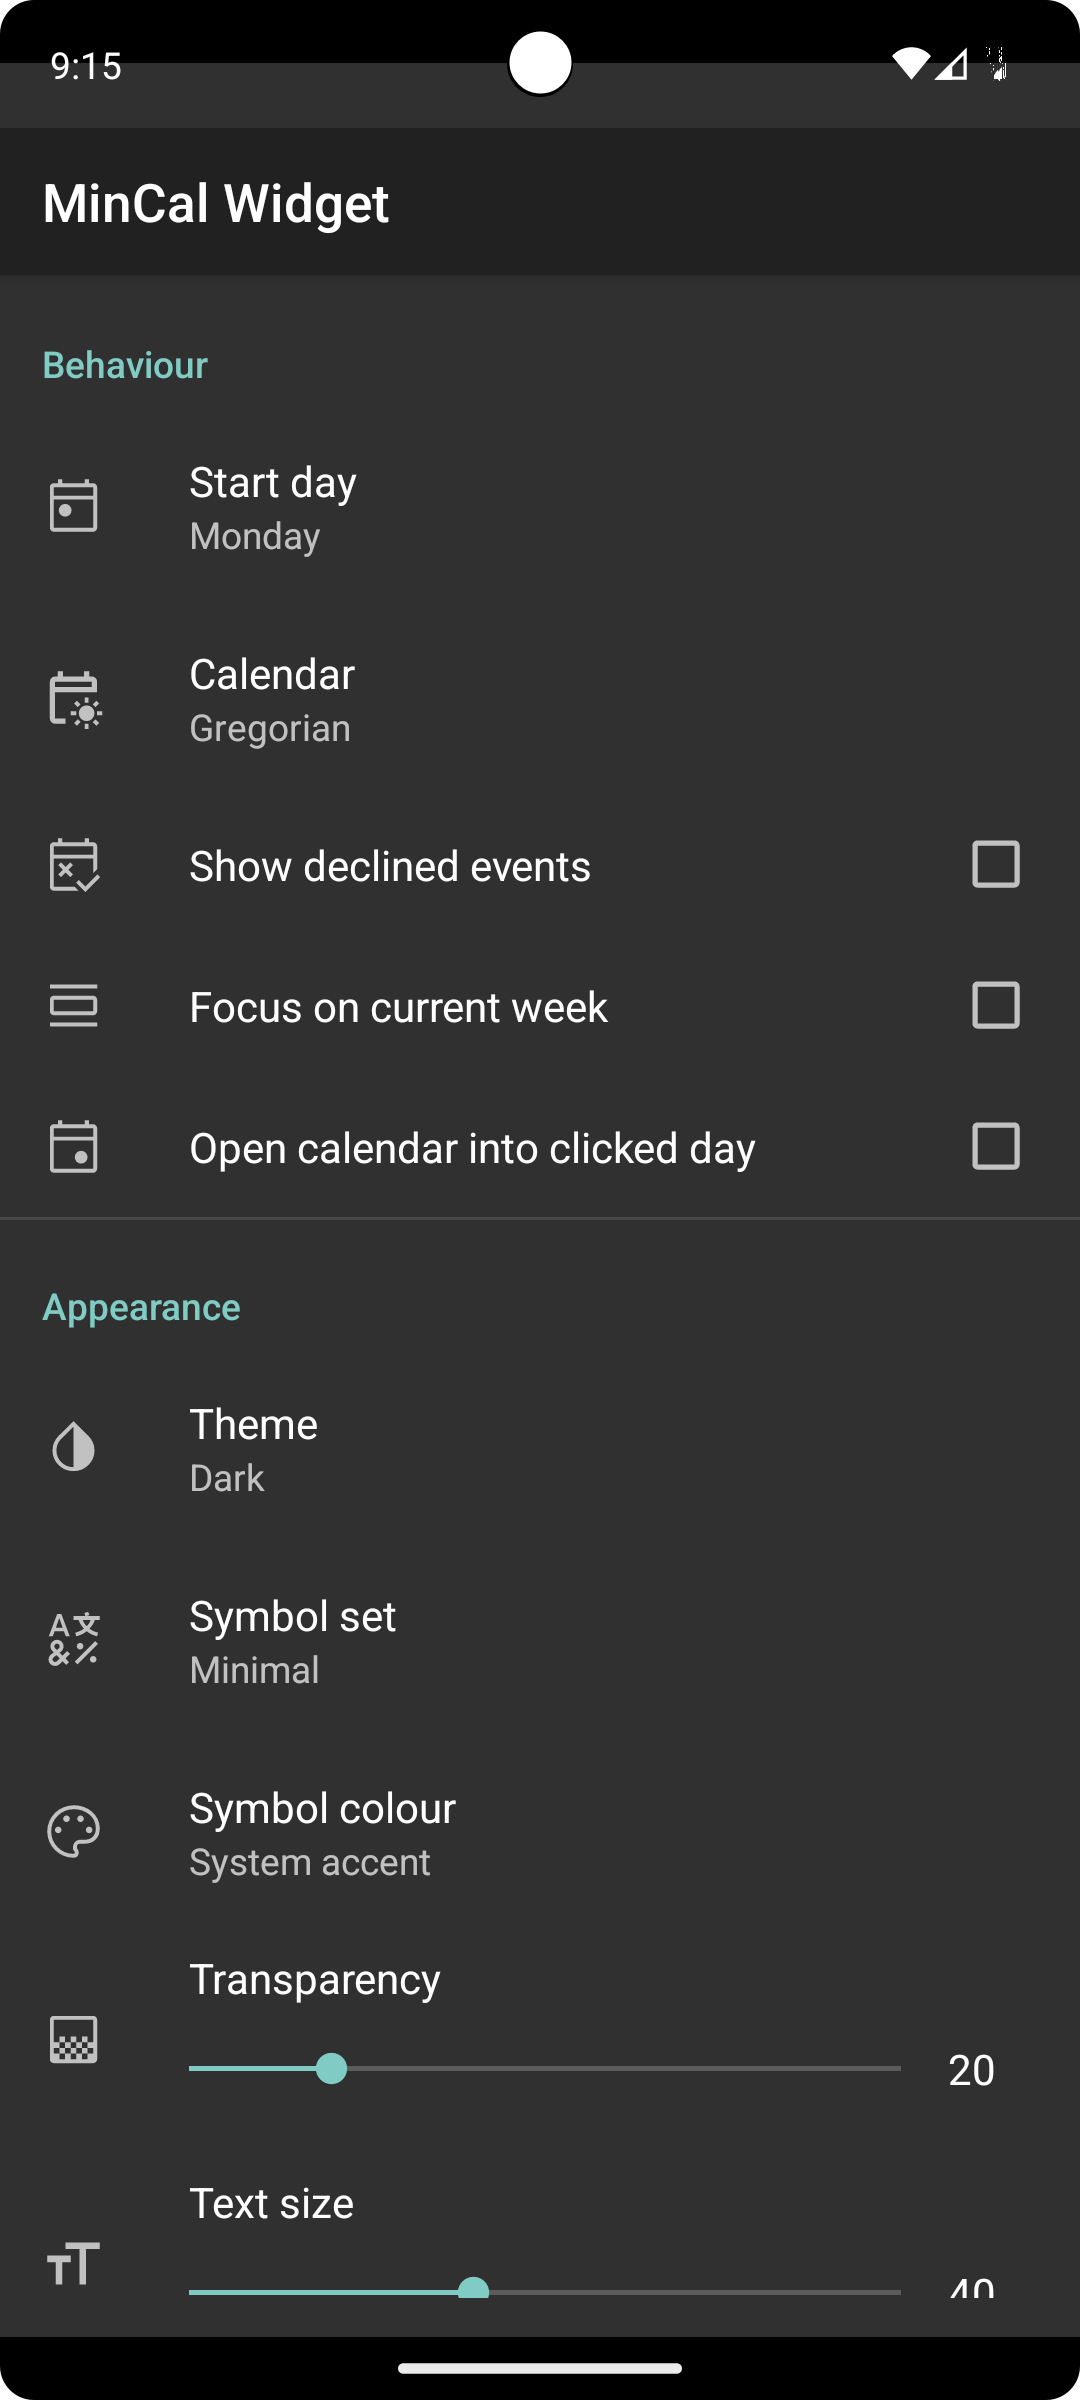
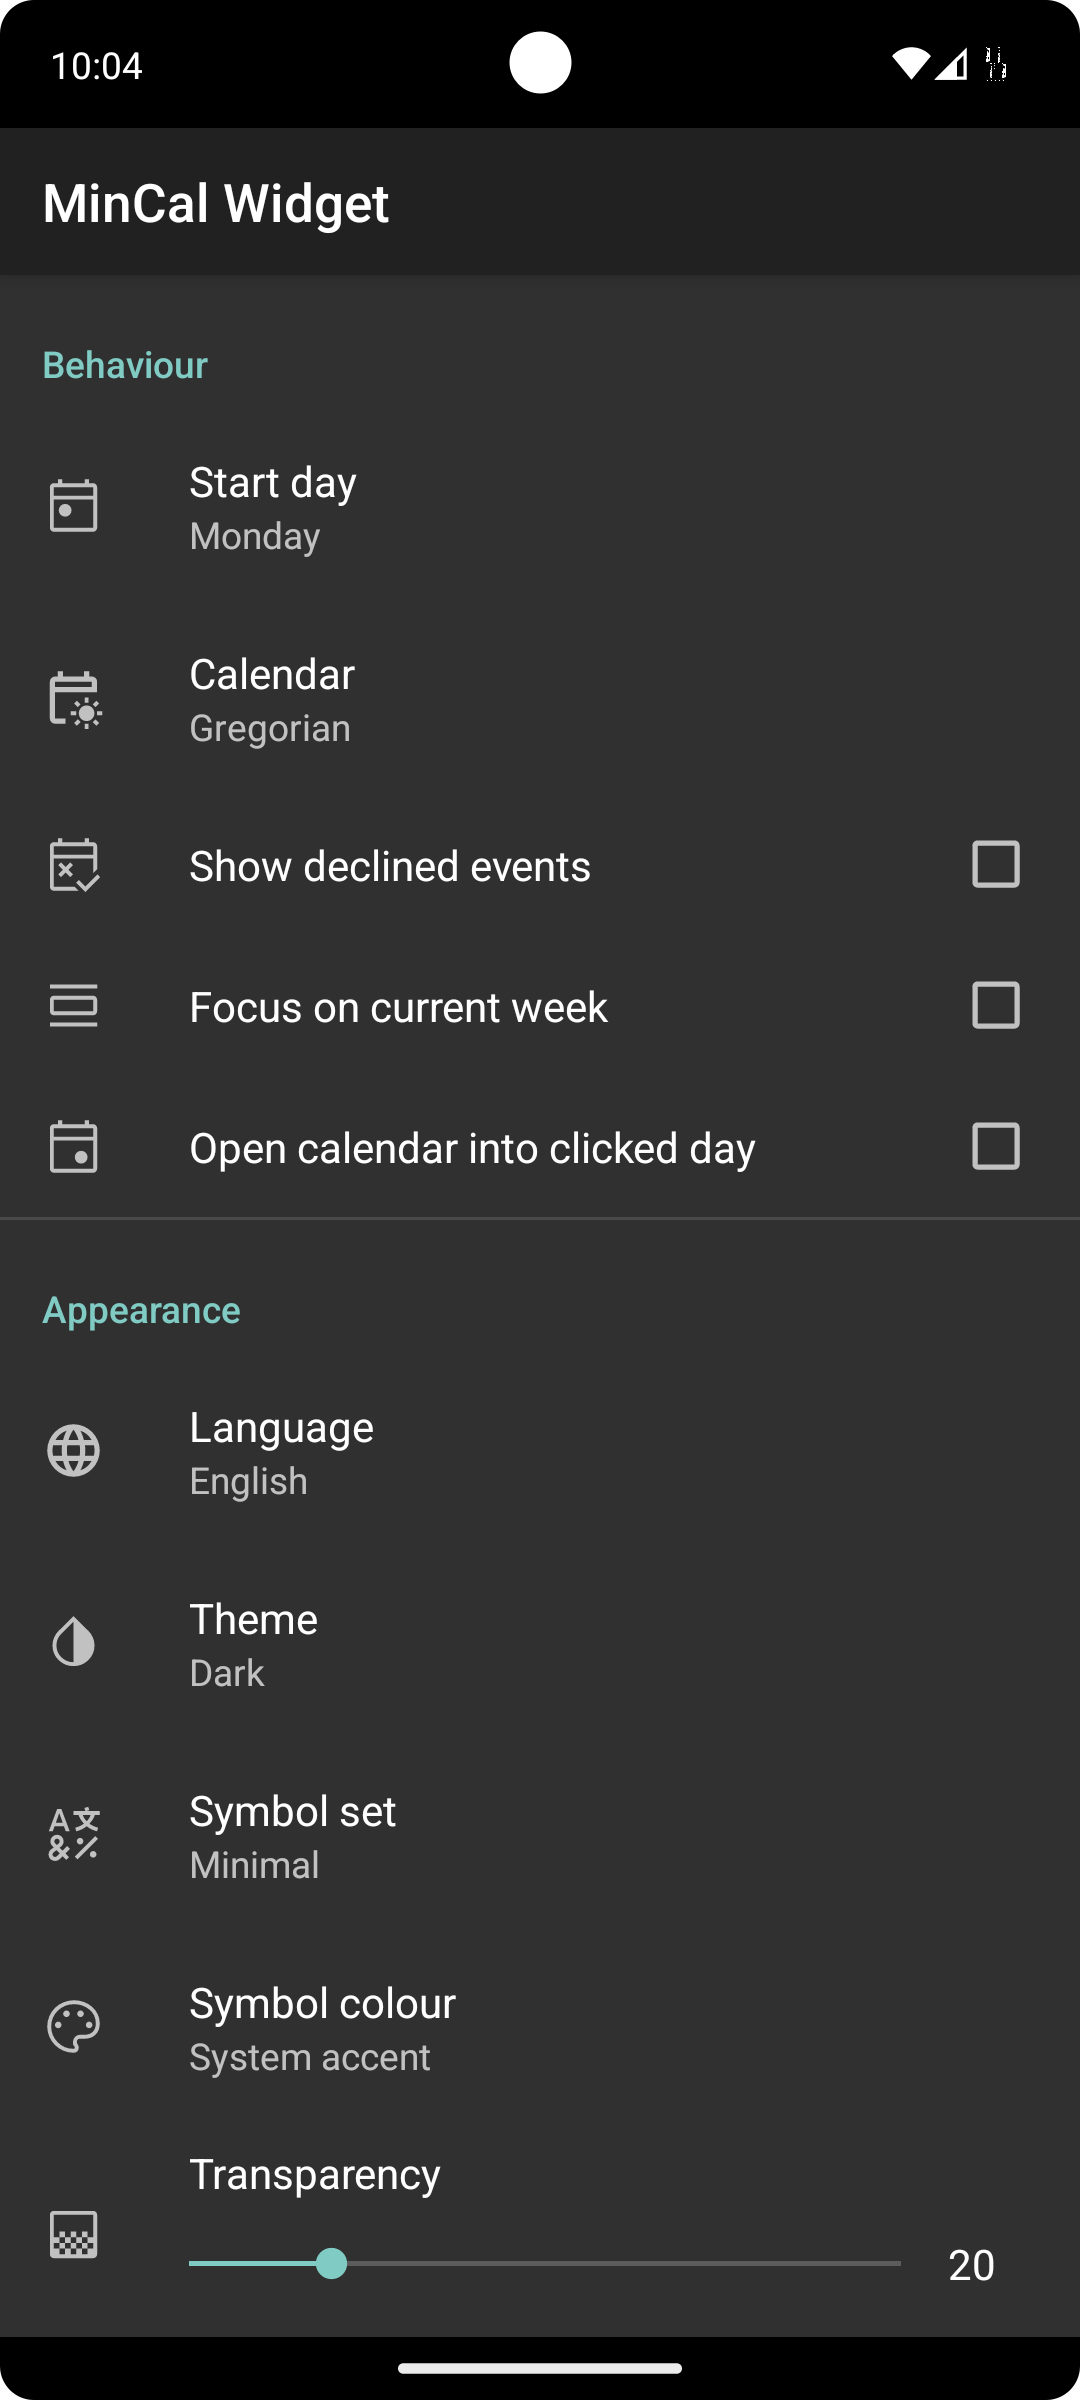
use per app language preference from API 33

diff --git a/app/src/main/kotlin/cat/mvmike/minimalcalendarwidget/infrastructure/activity/ConfigurationActivity.kt b/app/src/main/kotlin/cat/mvmike/minimalcalendarwidget/infrastructure/activity/ConfigurationActivity.kt
@@ -26,6 +26,7 @@ import cat.mvmike.minimalcalendarwidget.application.RedrawWidgetUseCase
 import cat.mvmike.minimalcalendarwidget.domain.configuration.BooleanConfigurationItem
 import cat.mvmike.minimalcalendarwidget.domain.configuration.ConfigurationItem
 import cat.mvmike.minimalcalendarwidget.domain.configuration.EnumConfigurationItem
+import cat.mvmike.minimalcalendarwidget.domain.configuration.LANGUAGE_KEY
 import cat.mvmike.minimalcalendarwidget.domain.configuration.PREFERENCE_KEY
 import cat.mvmike.minimalcalendarwidget.domain.configuration.PercentageConfigurationItem
 import cat.mvmike.minimalcalendarwidget.domain.configuration.SOURCE_KEY
@@ -35,7 +36,9 @@ import cat.mvmike.minimalcalendarwidget.domain.configuration.TRANSLATE_URL
 import cat.mvmike.minimalcalendarwidget.domain.configuration.VERSION_KEY
 import cat.mvmike.minimalcalendarwidget.domain.configuration.clearAllConfiguration
 import cat.mvmike.minimalcalendarwidget.domain.configuration.isFirstDayOfWeekLocalePreferenceEnabled
+import cat.mvmike.minimalcalendarwidget.domain.configuration.isPerAppLanguagePreferenceEnabled
 import cat.mvmike.minimalcalendarwidget.domain.getDisplayValue
+import cat.mvmike.minimalcalendarwidget.infrastructure.resolver.SystemResolver
 import cat.mvmike.minimalcalendarwidget.infrastructure.resolver.SystemResolver.getSystemFirstDayOfWeek
 
 class ConfigurationActivity : AppCompatActivity() {
@@ -87,6 +90,9 @@ class ConfigurationActivity : AppCompatActivity() {
             if (isFirstDayOfWeekLocalePreferenceEnabled()) {
                 fillRegionalPreferencesValues()
             }
+            if (isPerAppLanguagePreferenceEnabled()) {
+                fillAppLocaleSettings()
+            }
             updateCurrentSelection()
             fillAboutSection()
 
@@ -115,30 +121,49 @@ class ConfigurationActivity : AppCompatActivity() {
         }
 
         @SuppressLint("InlinedApi")
+        private fun fillAppLocaleSettings() =
+            LANGUAGE_KEY.asPreference()?.let {
+                it.summary = SystemResolver.getSystemLocale().displayLanguage
+                it.setOnPreferenceClickListener {
+                    startActivity(
+                        Intent(Settings.ACTION_APP_LOCALE_SETTINGS)
+                            .setData(Uri.fromParts("package", requireContext().packageName, null))
+                            .addFlags(
+                                Intent.FLAG_ACTIVITY_NO_HISTORY or
+                                    Intent.FLAG_ACTIVITY_EXCLUDE_FROM_RECENTS
+                            )
+                    )
+                    true
+                }
+            }
+
+        @SuppressLint("InlinedApi")
         private fun fillRegionalPreferencesValues() =
-            EnumConfigurationItem.FirstDayOfWeek.key.asPreference().let {
-                it?.summary = getSystemFirstDayOfWeek().getDisplayValue(requireContext())
-                it?.setOnPreferenceClickListener {
+            EnumConfigurationItem.FirstDayOfWeek.key.asPreference()?.let {
+                it.summary = getSystemFirstDayOfWeek().getDisplayValue(requireContext())
+                it.setOnPreferenceClickListener {
                     startActivity(
                         Intent(Settings.ACTION_REGIONAL_PREFERENCES_SETTINGS)
-                            .addFlags(Intent.FLAG_ACTIVITY_EXCLUDE_FROM_RECENTS)
-                            .addFlags(Intent.FLAG_ACTIVITY_NO_HISTORY)
+                            .addFlags(
+                                Intent.FLAG_ACTIVITY_NO_HISTORY or
+                                    Intent.FLAG_ACTIVITY_EXCLUDE_FROM_RECENTS
+                            )
                     )
                     true
                 }
             }
 
         private fun fillAboutSection() {
-            SOURCE_KEY.asPreference().let {
-                it?.summary = SOURCE_URL
-                it?.setOnPreferenceClickListener {
+            SOURCE_KEY.asPreference()?.let {
+                it.summary = SOURCE_URL
+                it.setOnPreferenceClickListener {
                     SOURCE_URL.openInBrowser()
                     true
                 }
             }
-            TRANSLATE_KEY.asPreference().let {
-                it?.summary = TRANSLATE_URL
-                it?.setOnPreferenceClickListener {
+            TRANSLATE_KEY.asPreference()?.let {
+                it.summary = TRANSLATE_URL
+                it.setOnPreferenceClickListener {
                     TRANSLATE_URL.openInBrowser()
                     true
                 }

diff --git a/app/src/test/kotlin/cat/mvmike/minimalcalendarwidget/infrastructure/resolver/SystemResolverTest.kt b/app/src/test/kotlin/cat/mvmike/minimalcalendarwidget/infrastructure/resolver/SystemResolverTest.kt
@@ -2,13 +2,9 @@
 // See LICENSE for licensing information
 package cat.mvmike.minimalcalendarwidget.infrastructure.resolver
 
-import android.content.res.Configuration
-import android.content.res.Resources
-import android.os.LocaleList
 import androidx.core.text.util.LocalePreferences
 import cat.mvmike.minimalcalendarwidget.BaseTest
 import io.mockk.every
-import io.mockk.mockk
 import io.mockk.mockkStatic
 import io.mockk.verify
 import org.assertj.core.api.Assertions.assertThat
@@ -55,19 +51,13 @@ internal class SystemResolverTest : BaseTest() {
     ) {
         mockkStatic(LocalePreferences::class)
         every { LocalePreferences.getFirstDayOfWeek() } returns ""
-        mockkStatic(Resources::class)
-        val resources = mockk<Resources>()
-        every { Resources.getSystem() } returns resources
-        val configuration = mockk<Configuration>()
-        every { resources.configuration } returns configuration
-        val localeList = mockk<LocaleList>()
-        every { configuration.locales } returns localeList
-        every { localeList[0] } returns locale
+        every { SystemResolver.getSystemLocale() } returns locale
 
         val result = SystemResolver.getSystemFirstDayOfWeek()
 
         assertThat(result).isEqualTo(expectedDayOfWeek)
         verify { SystemResolver.getSystemFirstDayOfWeek() }
+        verify { SystemResolver.getSystemLocale() }
     }
 
     private fun getLocalDatesWithExpectations() = Stream.of(

diff --git a/app/src/main/kotlin/cat/mvmike/minimalcalendarwidget/infrastructure/resolver/SystemResolver.kt b/app/src/main/kotlin/cat/mvmike/minimalcalendarwidget/infrastructure/resolver/SystemResolver.kt
@@ -21,7 +21,9 @@ object SystemResolver {
 
     fun getSystemZoneId() = ZoneId.systemDefault()!!
 
-    fun getSystemFirstDayOfWeek() = when (LocalePreferences.getFirstDayOfWeek()) {
+    fun getSystemLocale() = Resources.getSystem().configuration.locales[0]!!
+
+    fun getSystemFirstDayOfWeek(): DayOfWeek = when (LocalePreferences.getFirstDayOfWeek()) {
         LocalePreferences.FirstDayOfWeek.MONDAY -> DayOfWeek.MONDAY
         LocalePreferences.FirstDayOfWeek.TUESDAY -> DayOfWeek.TUESDAY
         LocalePreferences.FirstDayOfWeek.WEDNESDAY -> DayOfWeek.WEDNESDAY
@@ -29,11 +31,6 @@ object SystemResolver {
         LocalePreferences.FirstDayOfWeek.FRIDAY -> DayOfWeek.FRIDAY
         LocalePreferences.FirstDayOfWeek.SATURDAY -> DayOfWeek.SATURDAY
         LocalePreferences.FirstDayOfWeek.SUNDAY -> DayOfWeek.SUNDAY
-        else -> getLocaleFirstDayOfWeek()
-    }
-
-    private fun getLocaleFirstDayOfWeek(): DayOfWeek {
-        val systemLocale = Resources.getSystem().configuration.locales[0]
-        return WeekFields.of(systemLocale).firstDayOfWeek
+        else -> WeekFields.of(getSystemLocale()).firstDayOfWeek
     }
 }

diff --git a/app/src/test/kotlin/cat/mvmike/minimalcalendarwidget/domain/configuration/ConfigurationTest.kt b/app/src/test/kotlin/cat/mvmike/minimalcalendarwidget/domain/configuration/ConfigurationTest.kt
@@ -144,6 +144,28 @@ internal class ConfigurationTest : BaseTest() {
         "1,false",
         "5,false",
         "29,false",
+        "32,false",
+        "33,true",
+        "35,true",
+        "99,true"
+    )
+    fun isPerAppLanguagePreferenceEnabled_shouldDependOnSystemSDK(
+        sdkVersion: Int,
+        expectedAvailability: Boolean
+    ) {
+        mockGetRuntimeSDK(sdkVersion)
+
+        val result = isPerAppLanguagePreferenceEnabled()
+
+        assertThat(result).isEqualTo(expectedAvailability)
+        verifyGetRuntimeSDK()
+    }
+
+    @ParameterizedTest
+    @CsvSource(
+        "1,false",
+        "5,false",
+        "29,false",
         "33,false",
         "34,true",
         "35,true",

diff --git a/app/src/main/kotlin/cat/mvmike/minimalcalendarwidget/domain/configuration/Configuration.kt b/app/src/main/kotlin/cat/mvmike/minimalcalendarwidget/domain/configuration/Configuration.kt
@@ -29,6 +29,8 @@ const val SOURCE_KEY = "SOURCE"
 
 const val TRANSLATE_KEY = "TRANSLATE"
 
+const val LANGUAGE_KEY = "LANGUAGE"
+
 const val VERSION_KEY = "VERSION"
 
 const val SOURCE_URL = "https://github.com/mvmike/min-cal-widget"
@@ -170,6 +172,9 @@ sealed class PercentageConfigurationItem<E : Percentage>(
         )
     }
 }
+
+fun isPerAppLanguagePreferenceEnabled() =
+    SystemResolver.getRuntimeSDK() >= Build.VERSION_CODES.TIRAMISU
 
 fun isFirstDayOfWeekLocalePreferenceEnabled() =
     SystemResolver.getRuntimeSDK() >= Build.VERSION_CODES.UPSIDE_DOWN_CAKE
